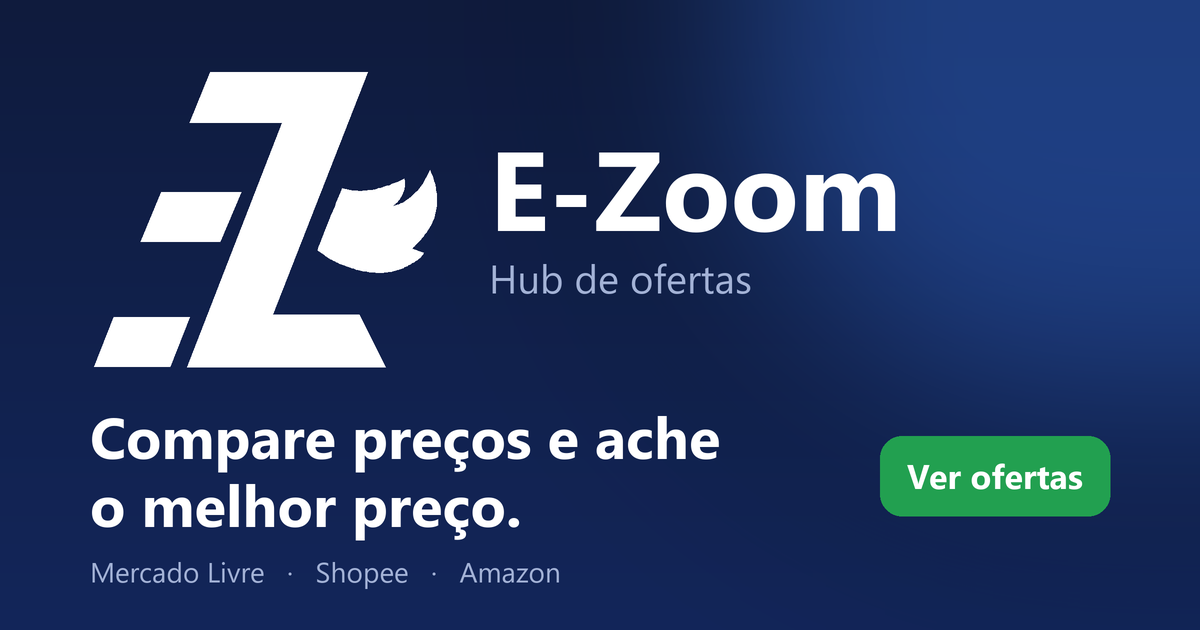
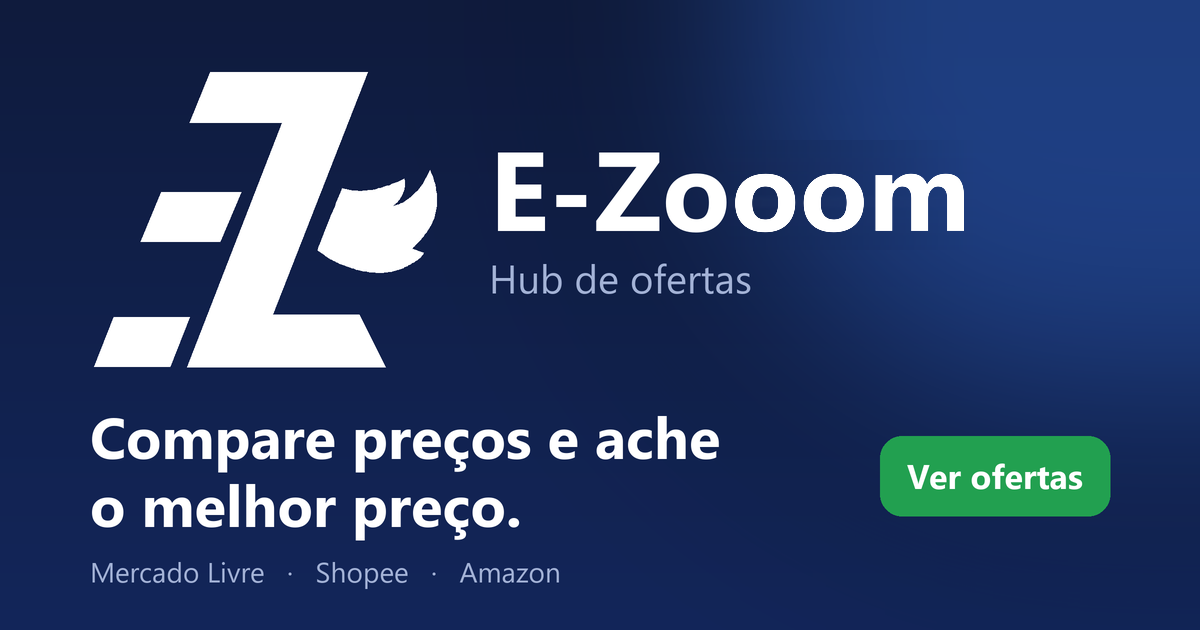
feat(marca): nome passa a E-Zooom e site passa a ezooom.com.br
Texto, logo do e-mail e imagens de compartilhamento com o novo nome; endereco
padrao do site, modelos de e-mail e testes apontam para ezooom.com.br.

Changed region(s): [[0.6475, 0.2714, 0.8017, 0.3921]]

diff --git a/src/app/(legal)/termos/page.tsx b/src/app/(legal)/termos/page.tsx
@@ -10,11 +10,11 @@ export default function TermsPage() {
     <>
       <h1>Termos de Uso</h1>
       <p>Última atualização: 8 de outubro de 2026.</p>
-      <p>Ao usar o E-Zoom você concorda com estes termos. Se não concordar, não utilize o site.</p>
+      <p>Ao usar o E-Zooom você concorda com estes termos. Se não concordar, não utilize o site.</p>
 
-      <h2>1. O que é o E-Zoom</h2>
+      <h2>1. O que é o E-Zooom</h2>
       <p>
-        O E-Zoom é um hub que reúne ofertas de lojas parceiras (Amazon, Mercado Livre e Shopee). Não somos
+        O E-Zooom é um hub que reúne ofertas de lojas parceiras (Amazon, Mercado Livre e Shopee). Não somos
         loja: não vendemos, não entregamos e não processamos pagamentos.
       </p>
 
@@ -26,7 +26,7 @@ export default function TermsPage() {
 
       <h2>3. Links de afiliado</h2>
       <p>
-        Como Associado da Amazon, o E-Zoom ganha com compras qualificadas. Também participamos do programa de
+        Como Associado da Amazon, o E-Zooom ganha com compras qualificadas. Também participamos do programa de
         afiliados do Mercado Livre e podemos receber comissão pelas compras feitas pelos nossos links, sem custo
         extra para você.
       </p>
@@ -35,7 +35,7 @@ export default function TermsPage() {
       <p>
         Os preços e as informações exibidos são coletados das lojas e podem mudar a qualquer momento, ficando
         desatualizados ou indisponíveis. O valor válido é sempre o exibido na página da loja no momento da compra.
-        Informações como &quot;menor preço registrado&quot; referem-se apenas ao histórico que o E-Zoom conseguiu
+        Informações como &quot;menor preço registrado&quot; referem-se apenas ao histórico que o E-Zooom conseguiu
         registrar.
       </p>
 
@@ -55,7 +55,7 @@ export default function TermsPage() {
         <li>
           <strong>Você é o responsável</strong> pelo que publica. Envie apenas conteúdo seu (texto, fotos e vídeos que
           você mesmo fez) e que descreva sua experiência com o produto ou o vendedor. Os comentários são opiniões dos
-          usuários, não do E-Zoom, e não verificamos se o autor comprou o produto.
+          usuários, não do E-Zooom, e não verificamos se o autor comprou o produto.
         </li>
         <li>
           <strong>Não publique:</strong> ofensas, discriminação, ameaças, conteúdo sexual, violento ou ilegal;
@@ -65,7 +65,7 @@ export default function TermsPage() {
         </li>
         <li>
           <strong>Licença:</strong> você continua sendo o autor. Ao publicar, você nos autoriza, sem custo e sem
-          exclusividade, a armazenar e exibir o conteúdo no E-Zoom enquanto ele estiver publicado.
+          exclusividade, a armazenar e exibir o conteúdo no E-Zooom enquanto ele estiver publicado.
         </li>
         <li>
           <strong>Moderação:</strong> o comentário aparece na hora, sem revisão prévia. Qualquer usuário logado pode
@@ -98,7 +98,7 @@ export default function TermsPage() {
 
       <h2>8. Propriedade intelectual</h2>
       <p>
-        O código, o design e a marca E-Zoom pertencem aos seus titulares. Nomes, imagens e marcas de produtos e
+        O código, o design e a marca E-Zooom pertencem aos seus titulares. Nomes, imagens e marcas de produtos e
         lojas pertencem aos respectivos donos e são exibidos apenas para identificar as ofertas. Os comentários,
         fotos e vídeos pertencem a quem os publicou, conforme a seção 6.
       </p>

diff --git a/supabase/email-templates/confirmar-cadastro.html b/supabase/email-templates/confirmar-cadastro.html
@@ -4,25 +4,25 @@
 <meta charset="utf-8">
 <meta name="viewport" content="width=device-width, initial-scale=1">
 <meta name="color-scheme" content="light">
-<title>Confirme seu e-mail no E-Zoom</title>
+<title>Confirme seu e-mail no E-Zooom</title>
 </head>
 <body style="margin:0;padding:0;background:#F4F6FB;">
-<div style="display:none;max-height:0;overflow:hidden;opacity:0;color:transparent;">Falta só um passo para ativar sua conta no E-Zoom.</div>
+<div style="display:none;max-height:0;overflow:hidden;opacity:0;color:transparent;">Falta só um passo para ativar sua conta no E-Zooom.</div>
 <table role="presentation" width="100%" cellpadding="0" cellspacing="0" style="background:#F4F6FB;">
   <tr>
     <td align="center" style="padding:32px 16px;">
       <table role="presentation" width="560" cellpadding="0" cellspacing="0" style="width:100%;max-width:560px;background:#FFFFFF;border:1px solid #D9E0EE;border-radius:16px;">
         <tr>
           <td style="padding:28px 32px 0 32px;">
-            <a href="https://e-zoom.vercel.app" style="text-decoration:none;">
-              <img src="https://e-zoom.vercel.app/brand/email-logo.png" width="210" height="55" alt="E-Zoom" style="display:block;border:0;outline:none;width:210px;height:55px;">
+            <a href="https://ezooom.com.br" style="text-decoration:none;">
+              <img src="https://ezooom.com.br/brand/email-logo.png" width="210" height="55" alt="E-Zooom" style="display:block;border:0;outline:none;width:210px;height:55px;">
             </a>
           </td>
         </tr>
         <tr>
           <td style="padding:24px 32px 0 32px;font-family:Segoe UI,Helvetica,Arial,sans-serif;color:#0F1B3D;">
             <h1 style="margin:0;font-size:24px;line-height:1.3;font-weight:700;color:#0F1B3D;">Confirme seu e-mail</h1>
-            <p style="margin:12px 0 0 0;font-size:16px;line-height:1.6;color:#58648A;">Falta só um passo para ativar sua conta no E-Zoom e sincronizar seus favoritos entre seus dispositivos.</p>
+            <p style="margin:12px 0 0 0;font-size:16px;line-height:1.6;color:#58648A;">Falta só um passo para ativar sua conta no E-Zooom e sincronizar seus favoritos entre seus dispositivos.</p>
           </td>
         </tr>
         <tr>
@@ -44,15 +44,15 @@
         </tr>
         <tr>
           <td style="padding:24px 32px 32px 32px;font-family:Segoe UI,Helvetica,Arial,sans-serif;font-size:13px;line-height:1.6;color:#58648A;">
-            Se você não criou uma conta no E-Zoom, pode ignorar este e-mail com segurança: nada será ativado.
+            Se você não criou uma conta no E-Zooom, pode ignorar este e-mail com segurança: nada será ativado.
           </td>
         </tr>
       </table>
       <table role="presentation" width="560" cellpadding="0" cellspacing="0" style="width:100%;max-width:560px;">
         <tr>
           <td align="center" style="padding:20px 16px 0 16px;font-family:Segoe UI,Helvetica,Arial,sans-serif;font-size:12px;line-height:1.6;color:#58648A;">
-            E-Zoom &middot; hub de ofertas do Mercado Livre, Shopee e Amazon<br>
-            <a href="https://e-zoom.vercel.app" style="color:#58648A;">e-zoom.vercel.app</a>
+            E-Zooom &middot; hub de ofertas do Mercado Livre, Shopee e Amazon<br>
+            <a href="https://ezooom.com.br" style="color:#58648A;">ezooom.com.br</a>
           </td>
         </tr>
       </table>

diff --git a/supabase/email-templates/redefinir-senha.html b/supabase/email-templates/redefinir-senha.html
@@ -4,25 +4,25 @@
 <meta charset="utf-8">
 <meta name="viewport" content="width=device-width, initial-scale=1">
 <meta name="color-scheme" content="light">
-<title>Redefina sua senha do E-Zoom</title>
+<title>Redefina sua senha do E-Zooom</title>
 </head>
 <body style="margin:0;padding:0;background:#F4F6FB;">
-<div style="display:none;max-height:0;overflow:hidden;opacity:0;color:transparent;">Use o botão para criar uma nova senha do E-Zoom.</div>
+<div style="display:none;max-height:0;overflow:hidden;opacity:0;color:transparent;">Use o botão para criar uma nova senha do E-Zooom.</div>
 <table role="presentation" width="100%" cellpadding="0" cellspacing="0" style="background:#F4F6FB;">
   <tr>
     <td align="center" style="padding:32px 16px;">
       <table role="presentation" width="560" cellpadding="0" cellspacing="0" style="width:100%;max-width:560px;background:#FFFFFF;border:1px solid #D9E0EE;border-radius:16px;">
         <tr>
           <td style="padding:28px 32px 0 32px;">
-            <a href="https://e-zoom.vercel.app" style="text-decoration:none;">
-              <img src="https://e-zoom.vercel.app/brand/email-logo.png" width="210" height="55" alt="E-Zoom" style="display:block;border:0;outline:none;width:210px;height:55px;">
+            <a href="https://ezooom.com.br" style="text-decoration:none;">
+              <img src="https://ezooom.com.br/brand/email-logo.png" width="210" height="55" alt="E-Zooom" style="display:block;border:0;outline:none;width:210px;height:55px;">
             </a>
           </td>
         </tr>
         <tr>
           <td style="padding:24px 32px 0 32px;font-family:Segoe UI,Helvetica,Arial,sans-serif;color:#0F1B3D;">
             <h1 style="margin:0;font-size:24px;line-height:1.3;font-weight:700;color:#0F1B3D;">Redefina sua senha</h1>
-            <p style="margin:12px 0 0 0;font-size:16px;line-height:1.6;color:#58648A;">Recebemos um pedido para criar uma nova senha da sua conta no E-Zoom. Clique no botão abaixo para escolher a nova senha.</p>
+            <p style="margin:12px 0 0 0;font-size:16px;line-height:1.6;color:#58648A;">Recebemos um pedido para criar uma nova senha da sua conta no E-Zooom. Clique no botão abaixo para escolher a nova senha.</p>
           </td>
         </tr>
         <tr>
@@ -51,8 +51,8 @@
       <table role="presentation" width="560" cellpadding="0" cellspacing="0" style="width:100%;max-width:560px;">
         <tr>
           <td align="center" style="padding:20px 16px 0 16px;font-family:Segoe UI,Helvetica,Arial,sans-serif;font-size:12px;line-height:1.6;color:#58648A;">
-            E-Zoom &middot; hub de ofertas do Mercado Livre, Shopee e Amazon<br>
-            <a href="https://e-zoom.vercel.app" style="color:#58648A;">e-zoom.vercel.app</a>
+            E-Zooom &middot; hub de ofertas do Mercado Livre, Shopee e Amazon<br>
+            <a href="https://ezooom.com.br" style="color:#58648A;">ezooom.com.br</a>
           </td>
         </tr>
       </table>

diff --git a/src/app/(legal)/privacidade/page.tsx b/src/app/(legal)/privacidade/page.tsx
@@ -10,19 +10,19 @@ export default function PrivacyPage() {
       <h1>Política de Privacidade</h1>
       <p>Última atualização: 8 de outubro de 2026.</p>
       <p>
-        Esta política explica quais dados o E-Zoom coleta, para quê, e como você pode exercer seus direitos
+        Esta política explica quais dados o E-Zooom coleta, para quê, e como você pode exercer seus direitos
         previstos na Lei Geral de Proteção de Dados (LGPD, Lei 13.709/2018).
       </p>
 
       <h2>1. Quem é o responsável</h2>
       <p>
-        <strong>E-Zoom</strong> é o controlador dos dados tratados neste site. Contato:{" "}
+        <strong>E-Zooom</strong> é o controlador dos dados tratados neste site. Contato:{" "}
         <a href={`mailto:${EMAIL}`}>{EMAIL}</a>.
       </p>
 
       <h2>2. O que o site é</h2>
       <p>
-        O E-Zoom é um hub de ofertas. Não vendemos produtos nem processamos pagamentos: ao clicar em &quot;Ver
+        O E-Zooom é um hub de ofertas. Não vendemos produtos nem processamos pagamentos: ao clicar em &quot;Ver
         oferta&quot; você é levado ao site da loja (Amazon, Mercado Livre ou Shopee), que trata seus dados conforme
         a política própria.
       </p>
@@ -108,7 +108,7 @@ export default function PrivacyPage() {
       <ul>
         <li>
           <strong>O que aparece para todos:</strong> o texto do comentário, as fotos e o vídeo, a data e o seu{" "}
-          <strong>primeiro nome</strong> (ou &quot;Cliente E-Zoom&quot; se você não informou nome). Seu e-mail nunca é
+          <strong>primeiro nome</strong> (ou &quot;Cliente E-Zooom&quot; se você não informou nome). Seu e-mail nunca é
           mostrado. O que você publica pode ser visto por qualquer pessoa que abra a página da oferta.
         </li>
         <li>
@@ -165,7 +165,7 @@ export default function PrivacyPage() {
         </li>
         <li>
           <strong>Lojas parceiras</strong> (Amazon, Mercado Livre, Shopee): recebem você apenas quando clica em uma
-          oferta, e podem identificar que a visita veio do E-Zoom por meio do link de afiliado.
+          oferta, e podem identificar que a visita veio do E-Zooom por meio do link de afiliado.
         </li>
       </ul>
       <p>

diff --git a/src/components/site-footer.tsx b/src/components/site-footer.tsx
@@ -12,16 +12,16 @@ export function SiteFooter() {
       <div className="border-t border-border bg-surface">
         <div className="page-container space-y-2 py-6 text-xs leading-relaxed text-muted-foreground">
           <p>
-            E-Zoom é um hub de ofertas. Os produtos são vendidos e entregues pelas lojas parceiras — ao clicar em
+            E-Zooom é um hub de ofertas. Os produtos são vendidos e entregues pelas lojas parceiras — ao clicar em
             &quot;Ver na loja&quot;, você é redirecionado para finalizar a compra por lá.
           </p>
           <p>
-            Como Associado da Amazon, o E-Zoom ganha com compras qualificadas. Também participamos do programa de
+            Como Associado da Amazon, o E-Zooom ganha com compras qualificadas. Também participamos do programa de
             afiliados do Mercado Livre e da Shopee e podemos receber comissão pelas compras feitas pelos nossos
             links, sem custo extra para você. Preços e disponibilidade podem mudar a qualquer momento.
           </p>
           <p>
-            © {new Date().getFullYear()} E-Zoom. Todos os direitos reservados. ·{" "}
+            © {new Date().getFullYear()} E-Zooom. Todos os direitos reservados. ·{" "}
             <Link href="/termos" className="underline-offset-2 hover:underline">
               Termos de Uso
             </Link>{" "}
@@ -34,7 +34,7 @@ export function SiteFooter() {
       <div className="bg-footer-bar text-white">
         <div className="page-container flex flex-wrap items-center justify-between gap-x-6 gap-y-3 py-5">
           <p className="text-sm font-semibold sm:text-base">
-            Você encontra no E-Zoom. A compra é finalizada na loja.
+            Você encontra no E-Zooom. A compra é finalizada na loja.
           </p>
           <nav aria-label="Rodapé" className="flex flex-wrap items-center gap-x-5 gap-y-1 text-sm">
             <Link

diff --git a/src/app/(legal)/perguntas-frequentes/page.tsx b/src/app/(legal)/perguntas-frequentes/page.tsx
@@ -3,19 +3,19 @@ import Link from "next/link"
 
 export const metadata: Metadata = {
   title: "Perguntas frequentes",
-  description: "Respostas rápidas sobre preços, compras, favoritos e conta no E-Zoom.",
+  description: "Respostas rápidas sobre preços, compras, favoritos e conta no E-Zooom.",
 }
 
 const EMAIL = "aflservicos2026@gmail.com"
 
 const FAQ: { q: string; a: React.ReactNode }[] = [
   {
-    q: "O E-Zoom vende produtos?",
+    q: "O E-Zooom vende produtos?",
     a: "Não. Reunimos ofertas de lojas parceiras. A compra, o pagamento e a entrega acontecem no site da loja.",
   },
   {
-    q: "Pago algo a mais por comprar pelo E-Zoom?",
-    a: "Não. O preço é o mesmo da loja. Se você comprar pelo nosso link, a loja pode pagar uma comissão ao E-Zoom, sem custo extra para você.",
+    q: "Pago algo a mais por comprar pelo E-Zooom?",
+    a: "Não. O preço é o mesmo da loja. Se você comprar pelo nosso link, a loja pode pagar uma comissão ao E-Zooom, sem custo extra para você.",
   },
   {
     q: "O preço da loja pode ser diferente do que aparece aqui?",
@@ -23,7 +23,7 @@ const FAQ: { q: string; a: React.ReactNode }[] = [
   },
   {
     q: "O que significa \"menor preço que registramos\"?",
-    a: "É o menor valor que o E-Zoom observou para aquele produto desde que começou a acompanhá-lo. Só aparece quando temos dados para afirmar isso, e não é uma garantia de que é o menor preço da internet.",
+    a: "É o menor valor que o E-Zooom observou para aquele produto desde que começou a acompanhá-lo. Só aparece quando temos dados para afirmar isso, e não é uma garantia de que é o menor preço da internet.",
   },
   {
     q: "Preciso criar conta?",

diff --git a/src/components/product-detail.tsx b/src/components/product-detail.tsx
@@ -240,7 +240,7 @@ export function ProductDetail({
               Você será direcionado {toward} {store.name} para finalizar a compra.
             </p>
             <p className="mt-1 text-center text-[11px] text-muted-foreground">
-              Link de afiliado: o E-Zoom pode receber comissão, sem custo extra para você.
+              Link de afiliado: o E-Zooom pode receber comissão, sem custo extra para você.
             </p>
           </section>
         </div>
@@ -369,7 +369,7 @@ export function ProductDetail({
               )}
               <p className="mt-3 text-xs text-muted-foreground">
                 Acompanhamos este preço desde {formatDay(tracked.since)} · {tracked.points.length} registros. Só
-                aparecem preços que o E-Zoom viu; não há dados de antes disso.
+                aparecem preços que o E-Zooom viu; não há dados de antes disso.
               </p>
             </>
           ) : (
@@ -435,7 +435,7 @@ export function ProductDetail({
 
       <div className="mt-6 flex flex-wrap items-center gap-x-4 gap-y-2 rounded-xl bg-accent px-4 py-3 text-sm text-accent-foreground">
         <Info className="h-5 w-5 shrink-0 text-brand" aria-hidden />
-        <p className="font-semibold">A compra é feita na loja. O E-Zoom reúne e apresenta as ofertas.</p>
+        <p className="font-semibold">A compra é feita na loja. O E-Zooom reúne e apresenta as ofertas.</p>
         <Link
           href="/como-funciona"
           className="flex items-center gap-1 font-semibold text-brand hover:underline focus-visible:outline-none focus-visible:ring-2 focus-visible:ring-ring"

diff --git a/engine/tests/structured-data.test.ts b/engine/tests/structured-data.test.ts
@@ -16,13 +16,13 @@ const product = (extra: Partial<Product> = {}): Product => ({
 })
 
 test("Product com Offer em reais, preço com duas casas e a página do site como URL", () => {
-  const data = productJsonLd(product(), "https://e-zoom.vercel.app")
+  const data = productJsonLd(product(), "https://ezooom.com.br")
   assert.equal(data["@type"], "Product")
   assert.equal(data.name, "Whey Protein 900g")
   assert.deepEqual(data.image, ["https://example.test/a.jpg"])
   assert.equal(data.offers.priceCurrency, "BRL")
   assert.equal(data.offers.price, "99.90")
-  assert.equal(data.offers.url, "https://e-zoom.vercel.app/produto/abc-123")
+  assert.equal(data.offers.url, "https://ezooom.com.br/produto/abc-123")
   assert.equal(data.offers.seller.name, "Mercado Livre")
 })
 
@@ -41,10 +41,10 @@ test("o JSON do script nunca fecha a tag nem quebra com títulos hostis", () => 
 })
 
 test("BreadcrumbList numera os níveis a partir de 1 e usa URLs absolutas", () => {
-  const data = breadcrumbJsonLd([["Início", "/"], ["Casa", "/categoria/casa"]], "https://e-zoom.vercel.app")
+  const data = breadcrumbJsonLd([["Início", "/"], ["Casa", "/categoria/casa"]], "https://ezooom.com.br")
   assert.deepEqual(
     data.itemListElement.map((i) => [i.position, i.item]),
-    [[1, "https://e-zoom.vercel.app/"], [2, "https://e-zoom.vercel.app/categoria/casa"]],
+    [[1, "https://ezooom.com.br/"], [2, "https://ezooom.com.br/categoria/casa"]],
   )
 })
 

diff --git a/src/app/(legal)/como-funciona/page.tsx b/src/app/(legal)/como-funciona/page.tsx
@@ -3,7 +3,7 @@ import Link from "next/link"
 
 export const metadata: Metadata = {
   title: "Como funciona",
-  description: "Entenda como o E-Zoom encontra ofertas e como você compra nas lojas parceiras.",
+  description: "Entenda como o E-Zooom encontra ofertas e como você compra nas lojas parceiras.",
 }
 
 export default function HowItWorksPage() {
@@ -11,7 +11,7 @@ export default function HowItWorksPage() {
     <>
       <h1>Como funciona</h1>
       <p>
-        O E-Zoom é um hub de ofertas: reunimos promoções de lojas como Mercado Livre e Amazon em um só lugar para
+        O E-Zooom é um hub de ofertas: reunimos promoções de lojas como Mercado Livre e Amazon em um só lugar para
         você comparar e escolher onde comprar. Não somos uma loja.
       </p>
 
@@ -34,9 +34,9 @@ export default function HowItWorksPage() {
         troca e garantia são da loja. Nós não temos carrinho nem processamos pagamentos.
       </p>
 
-      <h2>4. Como o E-Zoom ganha</h2>
+      <h2>4. Como o E-Zooom ganha</h2>
       <p>
-        Usamos links de afiliado. Se você comprar depois de clicar, a loja pode pagar uma comissão ao E-Zoom,{" "}
+        Usamos links de afiliado. Se você comprar depois de clicar, a loja pode pagar uma comissão ao E-Zooom,{" "}
         <strong>sem custo extra para você</strong>. É assim que o site se mantém, e não influencia o preço que você
         paga.
       </p>

diff --git a/src/components/share-button.tsx b/src/components/share-button.tsx
@@ -20,7 +20,7 @@ const buttonClass =
   "flex h-11 w-full cursor-pointer items-center justify-center gap-2 rounded-lg border border-border px-4 text-sm font-semibold text-foreground transition-colors hover:border-primary/50 hover:text-brand focus-visible:outline-none focus-visible:ring-2 focus-visible:ring-ring"
 
 /**
- * Shares the E-Zoom page of the offer (never the affiliate link, so the preview shows our page and
+ * Shares the E-Zooom page of the offer (never the affiliate link, so the preview shows our page and
  * the visitor still goes through "Ver oferta"). Phones get the system share sheet; desktops open
  * WhatsApp with the message ready, and "Copiar link" is always there.
  */
@@ -28,7 +28,7 @@ export function ShareButton({ id, title, price, storeName, className, leading }:
   const [copied, setCopied] = useState(false)
   const url = () => `${window.location.origin}/produto/${id}?utm_source=compartilhar`
   const short = title.length > 90 ? `${title.slice(0, 87)}…` : title
-  const text = `${short} por ${formatCurrency(price)} no ${storeName}. Veja no E-Zoom:`
+  const text = `${short} por ${formatCurrency(price)} no ${storeName}. Veja no E-Zooom:`
 
   const share = async () => {
     if (navigator.share) {

diff --git a/src/app/produto/[id]/page.tsx b/src/app/produto/[id]/page.tsx
@@ -13,7 +13,7 @@ import { formatCurrency } from "@/lib/utils"
 import { getClosedOffer, getOffer, getOfferImages, getPhoneAccessories, getPriceStats, getRelated, getSiblings, getTopDiscountIds } from "@/lib/offers"
 import { breadcrumbJsonLd, productJsonLd, serializeJsonLd } from "@/lib/structured-data"
 
-const SITE = process.env.NEXT_PUBLIC_SITE_URL ?? "https://e-zoom.vercel.app"
+const SITE = process.env.NEXT_PUBLIC_SITE_URL ?? "https://ezooom.com.br"
 
 export const revalidate = 1800
 
@@ -51,11 +51,11 @@ export async function generateMetadata({
     // What WhatsApp, Telegram and Facebook show when the page is shared.
     openGraph: {
       type: "website",
-      siteName: "E-Zoom",
+      siteName: "E-Zooom",
       locale: "pt_BR",
       url: `/produto/${product.id}`,
       title: product.title,
-      description: `${formatCurrency(product.price)} em ${STORES[product.store].name}. Veja o histórico de preço no E-Zoom.`,
+      description: `${formatCurrency(product.price)} em ${STORES[product.store].name}. Veja o histórico de preço no E-Zooom.`,
       images: [product.image],
     },
     twitter: { card: "summary_large_image" },

diff --git a/engine/tests/daily-deals.test.ts b/engine/tests/daily-deals.test.ts
@@ -59,7 +59,7 @@ test("sem ofertas boas, a lista fica vazia (nada é inventado para completar)", 
 test("texto: título curto, preços, loja, link de afiliado, aviso de comissão e link do site", () => {
   const text = dailyDealsText(
     [deal({ title: "A".repeat(100), price: 70, originalPrice: 100, isFreeShipping: true, affiliateUrl: "https://example.test/x" })],
-    "https://e-zoom.vercel.app",
+    "https://ezooom.com.br",
     new Date("2026-10-07T15:00:00Z"),
   )
   assert.ok(text.startsWith("🔥 OFERTAS DO DIA - 07/10"))
@@ -69,6 +69,6 @@ test("texto: título curto, preços, loja, link de afiliado, aviso de comissão 
   assert.ok(text.includes("frete grátis"))
   assert.ok(text.includes("https://example.test/x"))
   assert.ok(text.includes("…"), "título longo deveria ser cortado")
-  assert.ok(text.includes("https://e-zoom.vercel.app/busca?ordenacao=desconto"))
+  assert.ok(text.includes("https://ezooom.com.br/busca?ordenacao=desconto"))
   assert.ok(text.includes("Podemos receber comissão"))
 })
